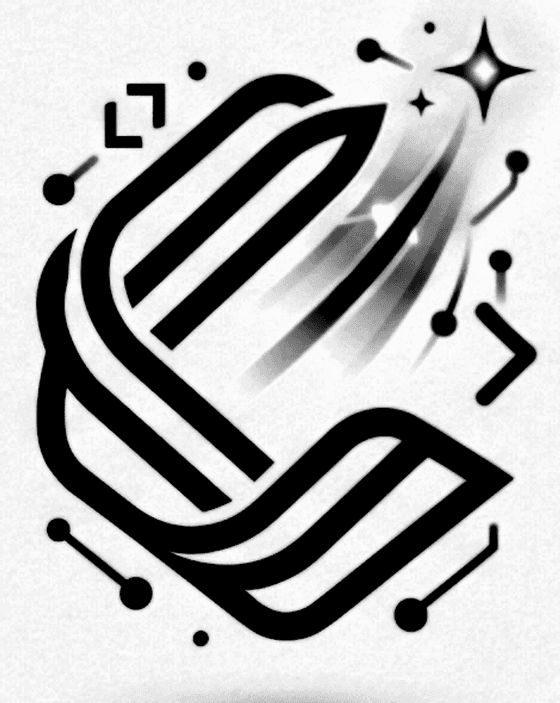
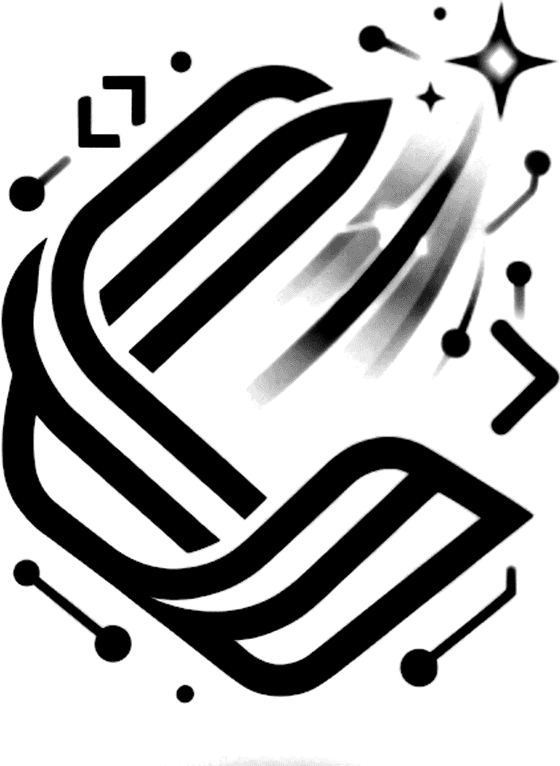
Adopt the new brand mark across the site
Replaces the previous logo in the header, footer, mobile nav, favicon and
structured data. The hero watermark moves to the lower corner on phones,
where it was previously sitting behind the body copy.

diff --git a/src/components/sections/hero.tsx b/src/components/sections/hero.tsx
@@ -39,9 +39,10 @@ export async function Hero() {
           register as texture, not as a second thing to read. */}
       <div
         aria-hidden
-        className="pointer-events-none absolute -z-10 opacity-[0.05] dark:opacity-[0.06]
-                   -end-20 top-1/2 h-[26rem] w-[21rem] -translate-y-1/2
-                   sm:-end-10 sm:h-[34rem] sm:w-[27rem]
+        className="pointer-events-none absolute -z-10 opacity-[0.07] dark:opacity-[0.085]
+                   -end-16 bottom-4 h-[17rem] w-[13rem]
+                   sm:bottom-auto sm:top-1/2 sm:-end-10 sm:h-[34rem] sm:w-[27rem]
+                   sm:-translate-y-1/2 sm:opacity-[0.05] sm:dark:opacity-[0.06]
                    lg:end-[7%] lg:h-[38rem] lg:w-[30rem]"
         style={{
           backgroundColor: 'var(--primary)',

diff --git a/src/components/layout/logo.tsx b/src/components/layout/logo.tsx
@@ -4,8 +4,8 @@ import { asset } from '@/lib/asset';
 import { cn } from '@/lib/utils';
 import { company } from '@/content/company';
 
-/** Intrinsic aspect ratio of public/logo.png (868 x 748). */
-const LOGO_RATIO = 868 / 748;
+/** Intrinsic aspect ratio of public/brand/mark-color.png (320 x 438). */
+const LOGO_RATIO = 320 / 438;
 
 export function Logo({
   className,
@@ -19,7 +19,7 @@ export function Logo({
   return (
     <span className={cn('inline-flex items-center gap-2.5', className)}>
       <Image
-        src={asset('/logo.png')}
+        src={asset('/brand/mark-color.png')}
         alt=""
         width={Math.round(size * LOGO_RATIO)}
         height={size}

diff --git a/src/app/[locale]/layout.tsx b/src/app/[locale]/layout.tsx
@@ -105,8 +105,8 @@ export async function generateMetadata({
     // next/image. بدون هذا تُطلب الأيقونة من جذر النطاق وتعود 404 عند أي
     // نشر تحت مسار فرعي.
     icons: {
-      icon: `${basePath}/logo.png`,
-      apple: `${basePath}/logo.png`,
+      icon: `${basePath}/brand/icon.png`,
+      apple: `${basePath}/brand/icon.png`,
     },
   };
 }

diff --git a/src/components/seo/json-ld.tsx b/src/components/seo/json-ld.tsx
@@ -10,7 +10,7 @@ export function OrganizationJsonLd() {
     url: company.url,
     email: company.email,
     foundingDate: String(company.founded),
-    logo: `${company.url}/logo.png`,
+    logo: `${company.url}/brand/icon.png`,
     sameAs: Object.values(company.social).filter(Boolean),
     makesOffer: services.map((service) => ({
       '@type': 'Offer',
